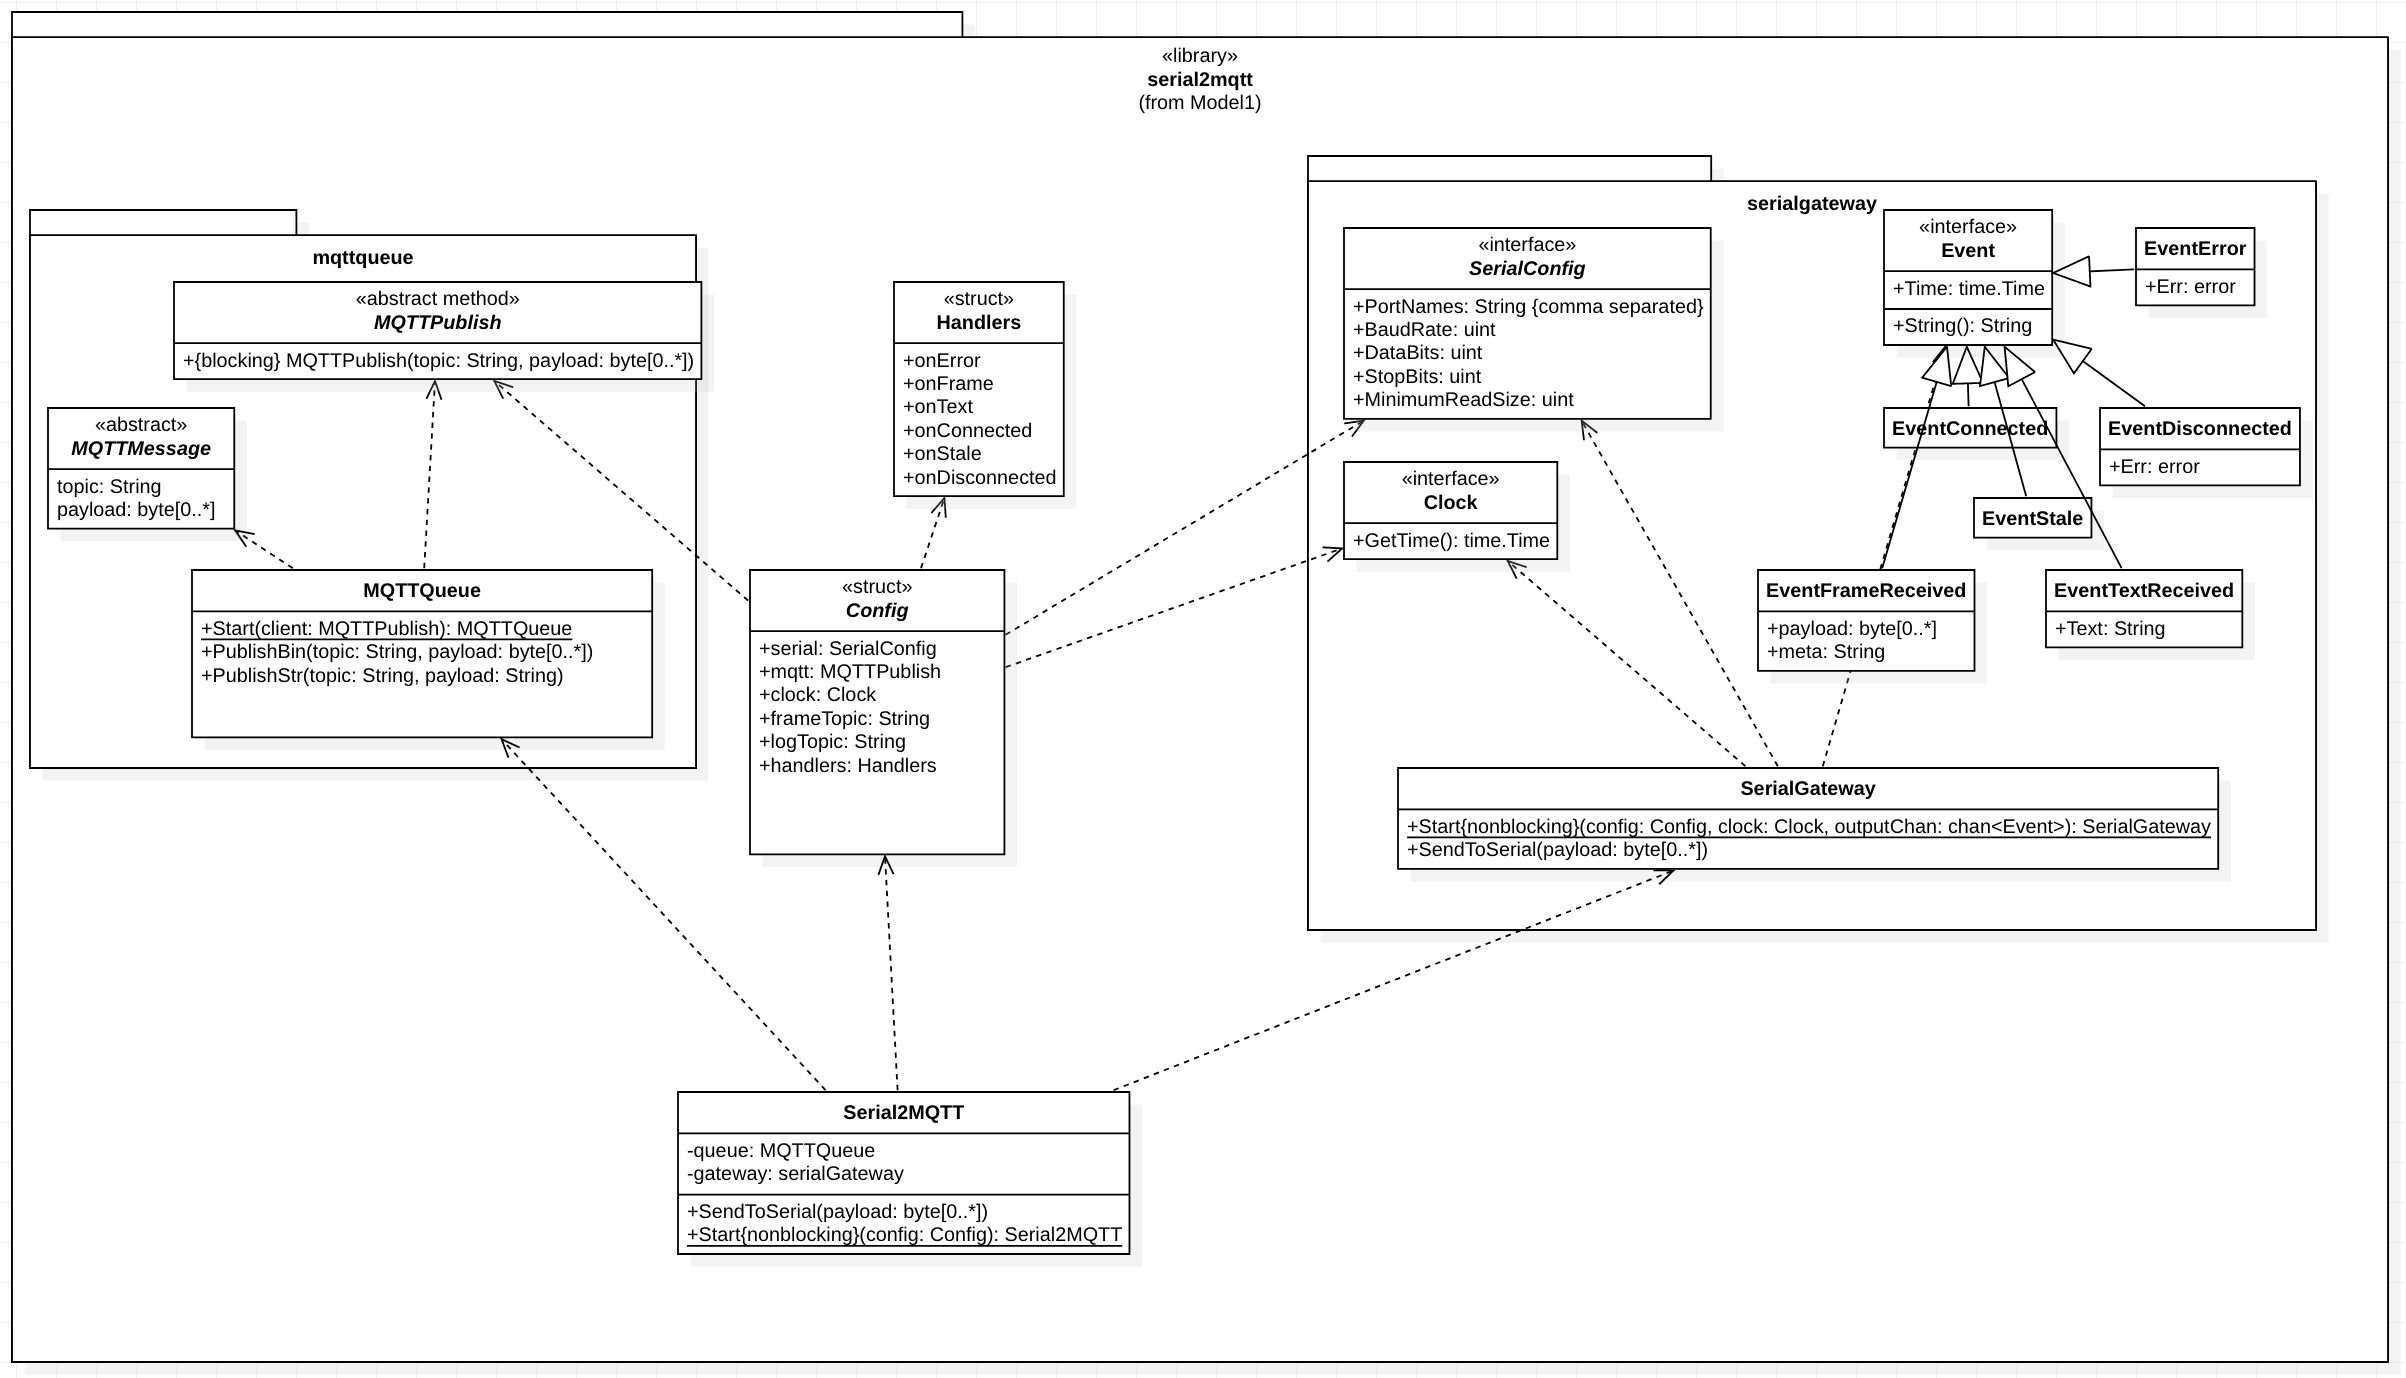
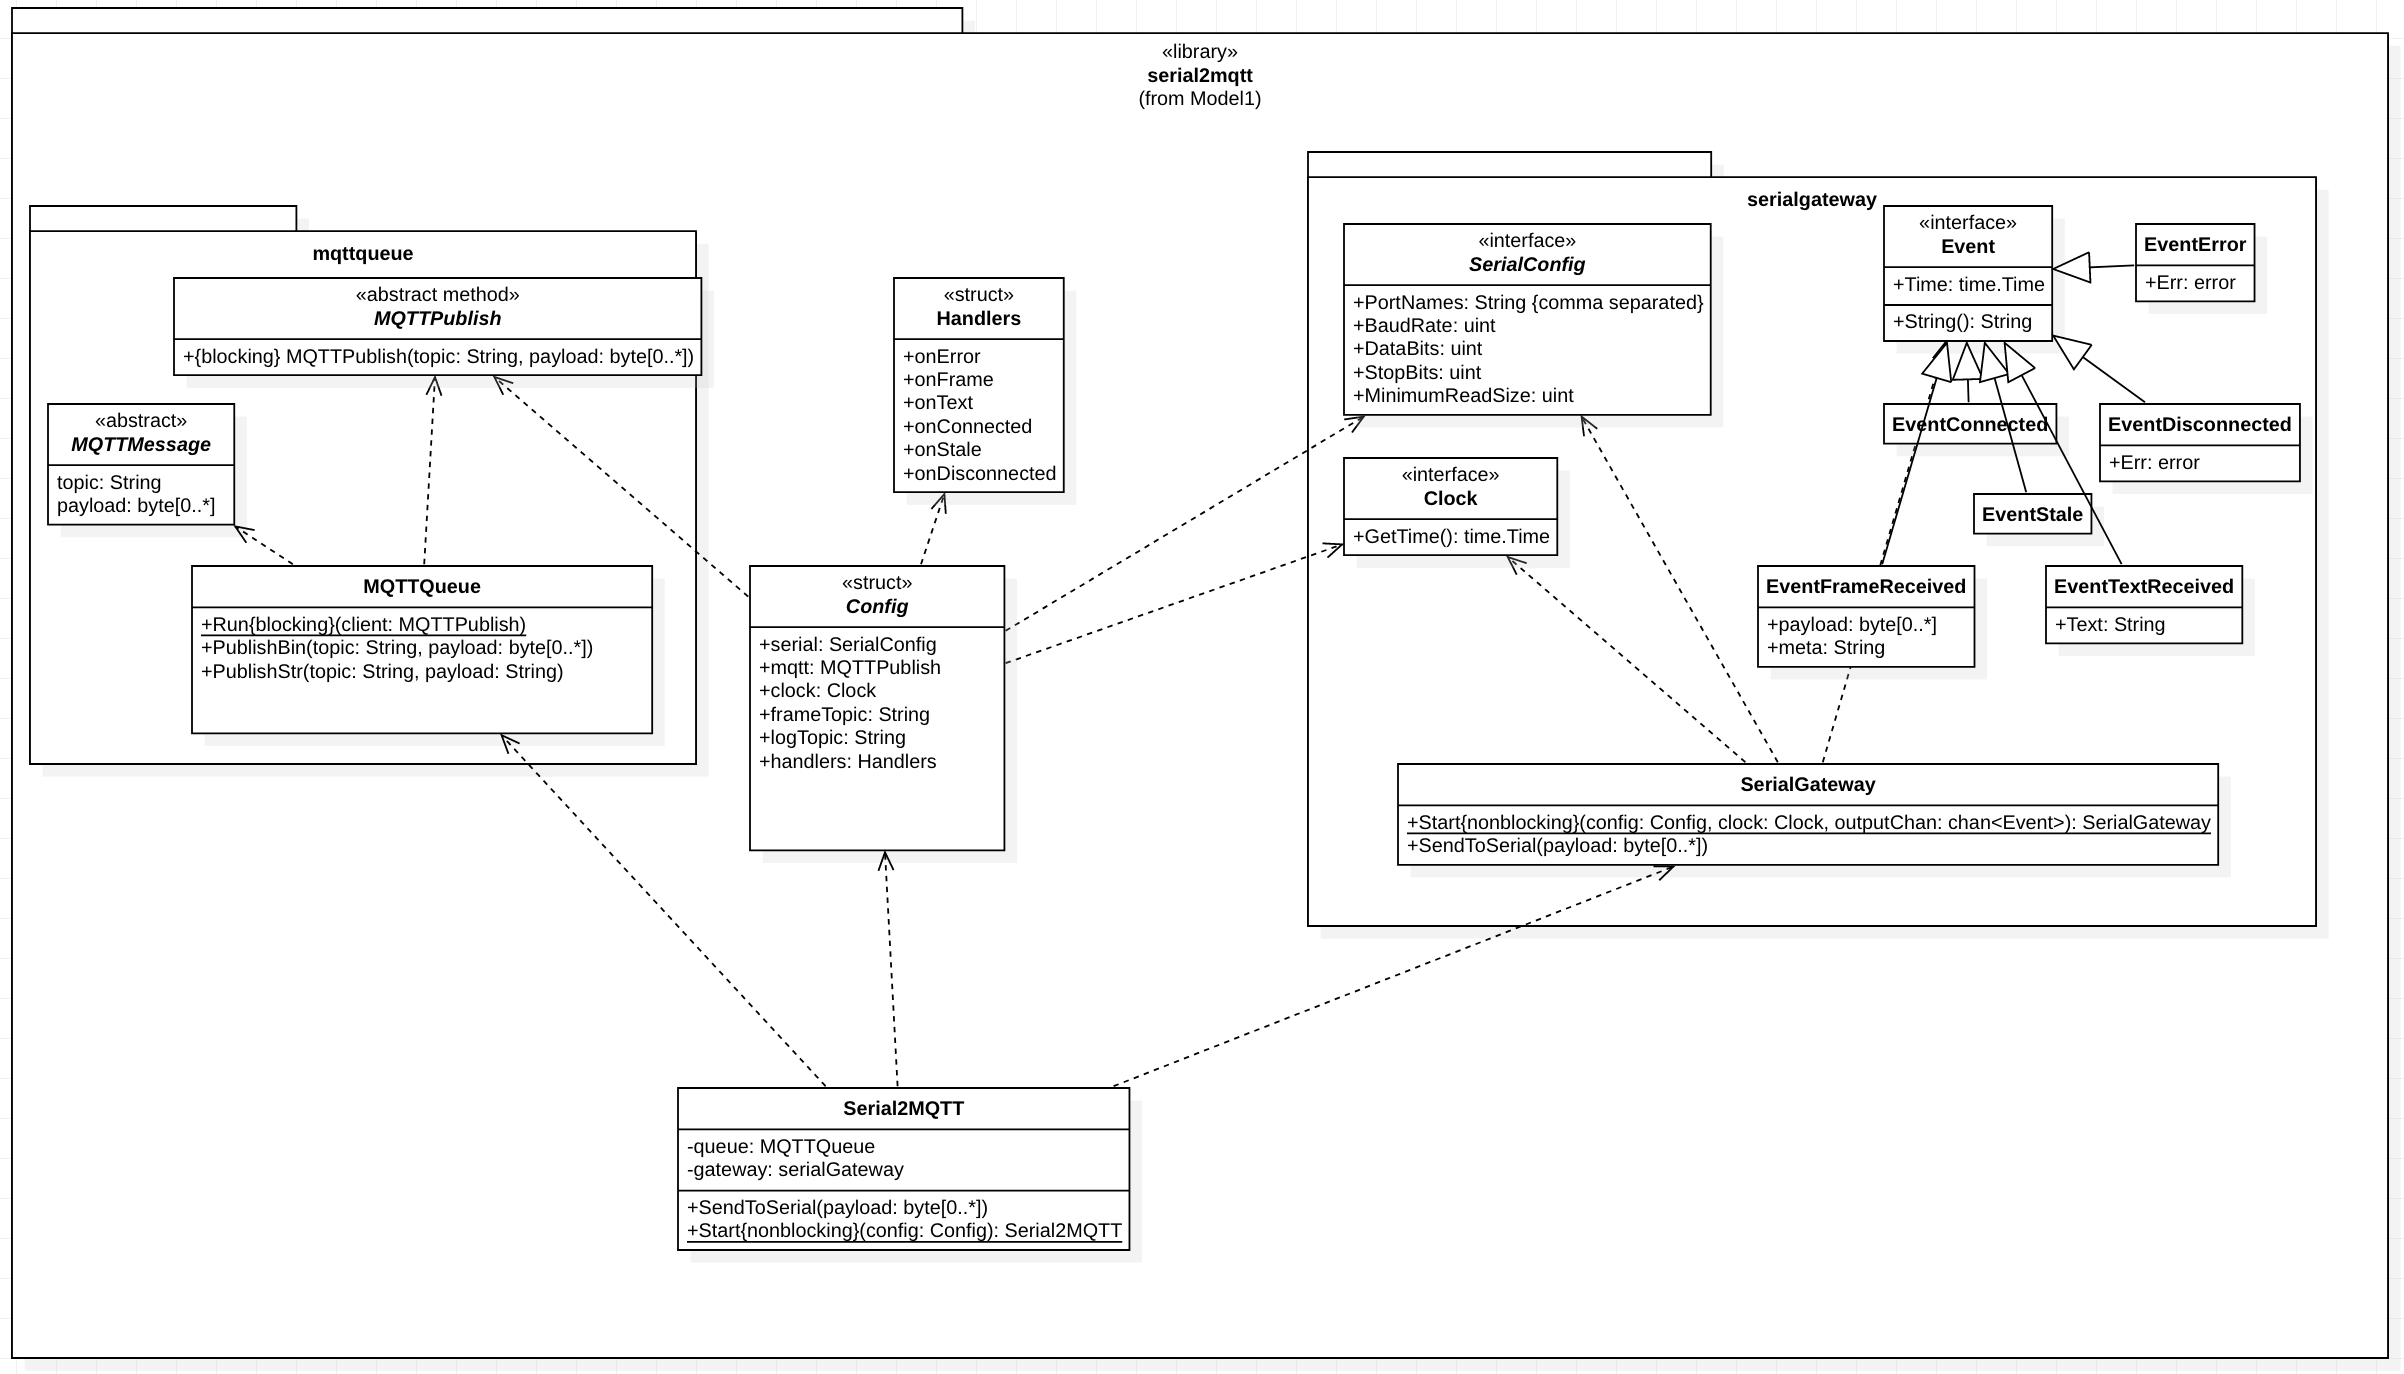
feat: make serial2mqtt blocking

diff --git a/Run.go b/Run.go
@@ -5,8 +5,8 @@ import (
 	"github.com/Jblew/serial2mqtt/serialgateway"
 )
 
-// Start is starting all event loops
-func Start(config Config) Serial2MQTT {
+// Run is starting all event loops
+func Run(config Config) {
 	queue := mqttqueue.Start(config.MQTTPublish)
 	serialChan := make(chan serialgateway.Event)
 	serialConfig := serialgateway.Config(config.Serial)
@@ -18,6 +18,5 @@ func Start(config Config) Serial2MQTT {
 		gateway,
 	}
 
-	go serial2mqtt.runSerialEventHandlingLoop(serialChan)
-	return serial2mqtt
+	serial2mqtt.runSerialEventHandlingLoop(serialChan)
 }
